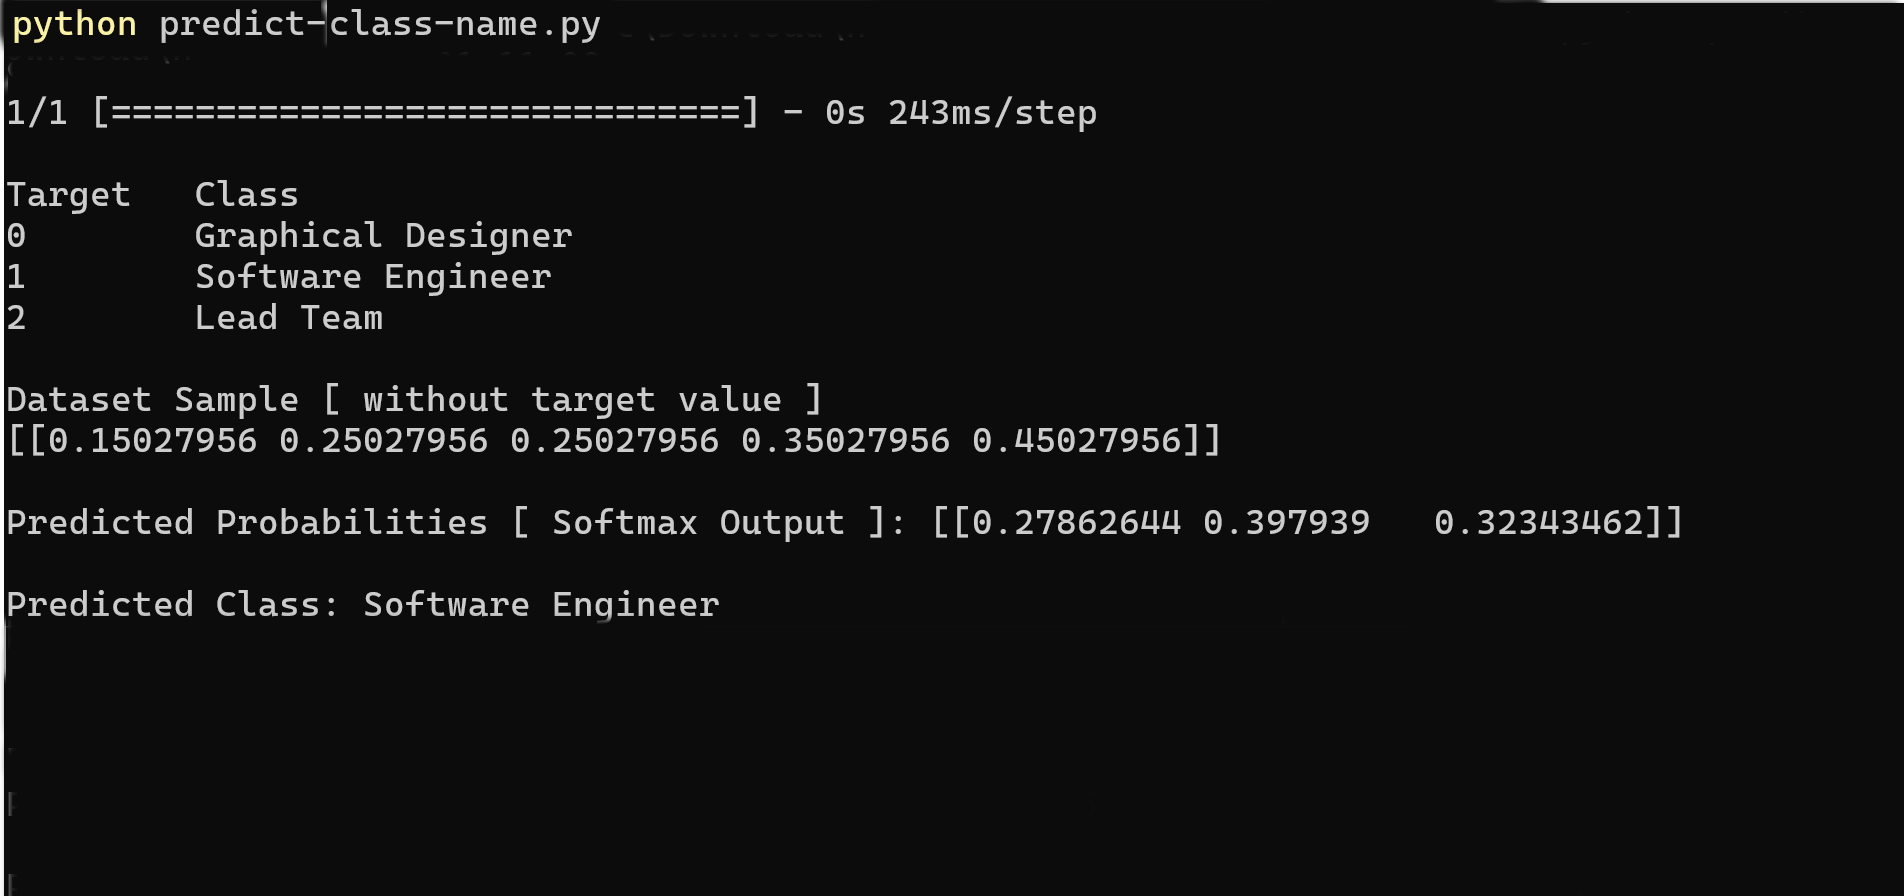
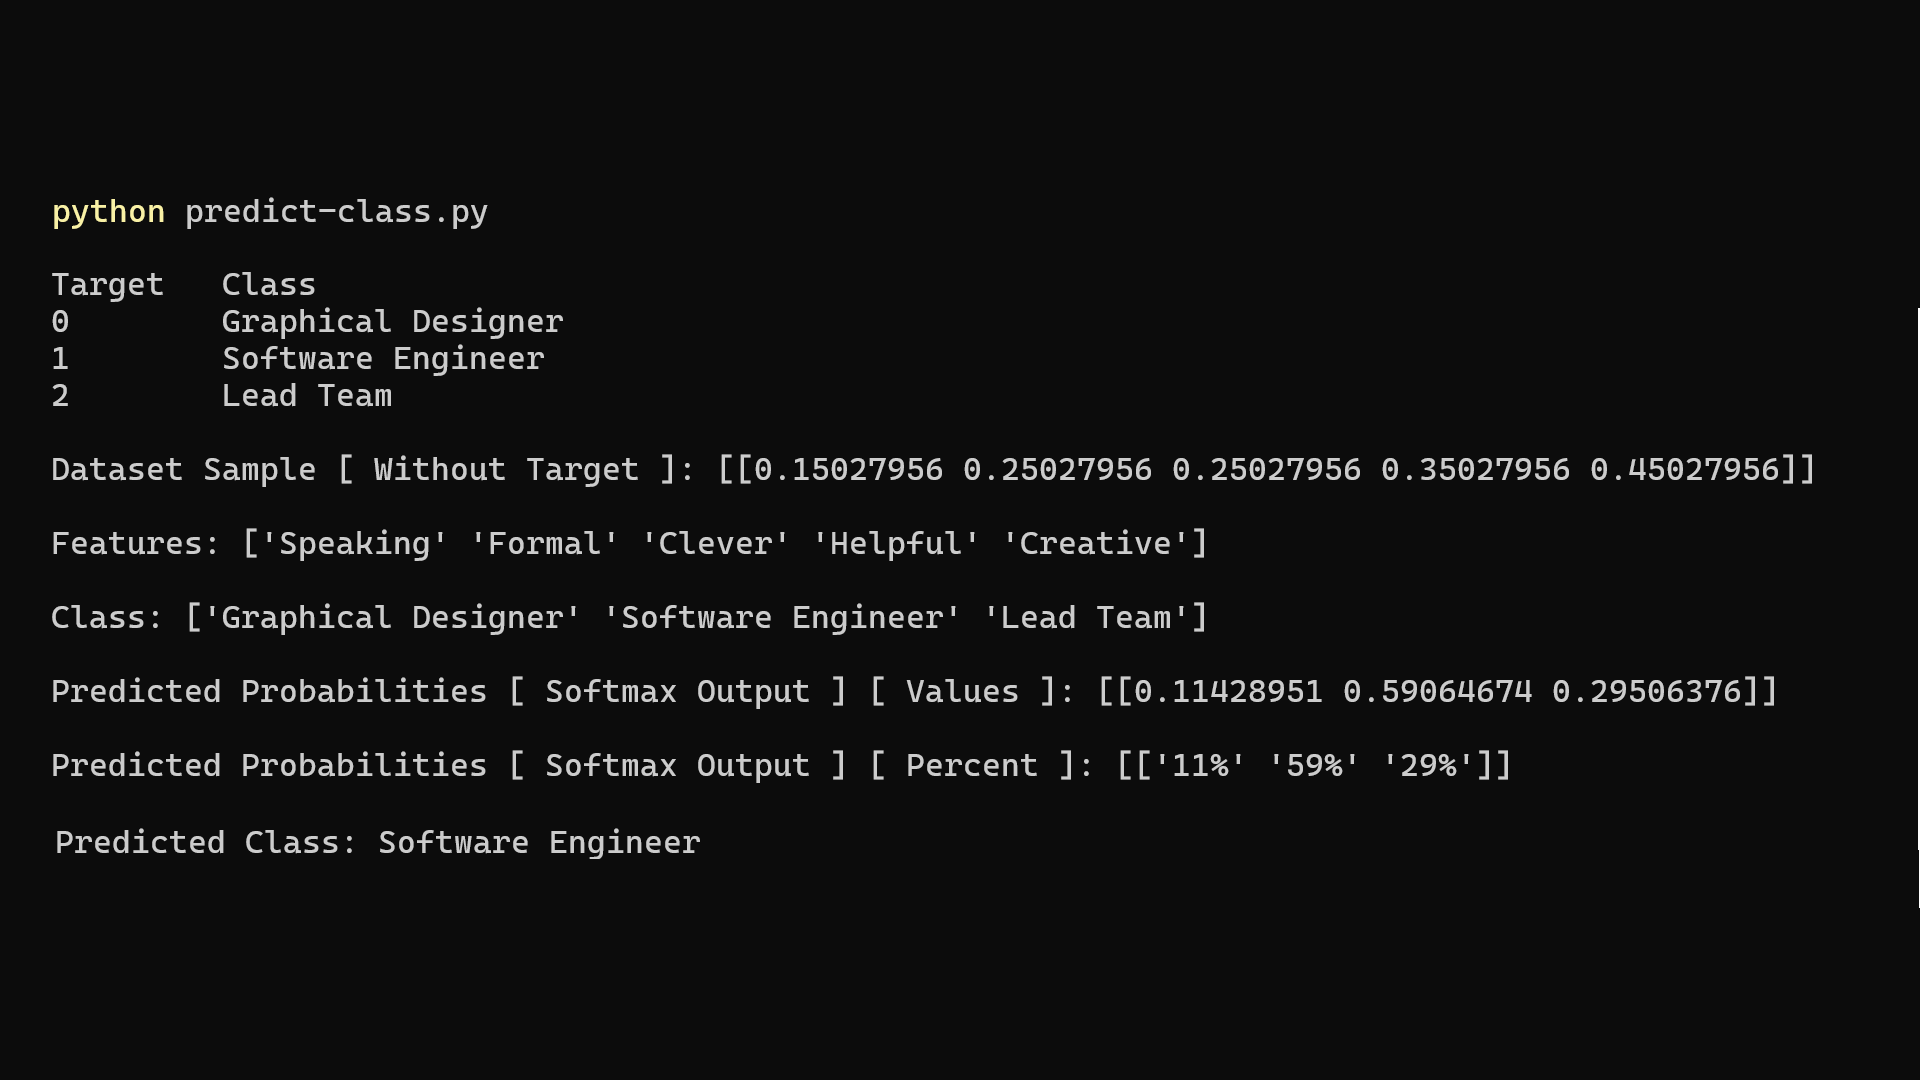
added

diff --git a/python/predict-class/app/predict-class.py b/python/predict-class/app/predict-class.py
@@ -1,0 +1,149 @@
+import numpy as np
+import math as mt
+import tensorflow as tf
+import matplotlib.pyplot as plt
+
+import os
+os.environ['TF_CPP_MIN_LOG_LEVEL'] = '2' #avoid info and warning messages
+
+from tensorflow.keras.models import Sequential
+from tensorflow.keras.layers import Dense
+from tensorflow.keras.utils import to_categorical
+from sklearn.model_selection import train_test_split
+
+import csv
+
+from sklearn.utils import Bunch
+
+def load_dataset():    
+    with open(r'dataset.csv') as csv_file:
+        data_reader = csv.reader(csv_file)
+
+        feature_names = next(data_reader)[:-1]
+        data = []
+        target = []
+
+        for row in data_reader:
+            features = row[:-1]
+            label = row[-1]
+
+            data.append([float(num) for num in features])
+            target.append(int(label))
+        
+        data = np.array(data)
+        target = np.array(target)
+
+    return Bunch\
+    (
+        data=data,
+        target=target, 
+        feature_names=feature_names
+    )
+
+ds = load_dataset()
+
+X = ds.data        
+y = ds.target      
+
+y_encoded = to_categorical(y)
+
+training = train_test_split(X, y_encoded, test_size=0.2, random_state=42)
+
+(
+    X_train, 
+    X_test, 
+    y_train, 
+    y_test
+) = training
+
+# functions to be applied
+relu = Dense\
+(
+    8, 
+    input_shape=(5,), 
+    activation='relu'
+)   
+softmax = Dense\
+(
+    3, 
+    activation='softmax'
+)                  
+
+model = Sequential\
+([
+    relu,
+    softmax
+])
+
+model.compile\
+(
+    optimizer='adam', 
+    loss='categorical_crossentropy', 
+    metrics=['accuracy']
+)
+
+history = model.fit\
+(
+    X_train, 
+    y_train, 
+    epochs=100, 
+    batch_size=8, 
+    validation_split=0.2, 
+    verbose=0
+)
+
+sample = np.array\
+(
+    [
+        [
+        
+            0.1502795572743873,    #speaking feature
+            0.2502795572743873,    #formal feature
+            0.2502795572743873,    #clever feature
+            0.3502795572743873,    #helpful feature
+            0.4502795572743873,    #creative feature
+
+        ]
+    ]   
+)
+
+
+prediction = model.predict(sample, verbose=0)
+predicted_class = np.argmax(prediction)
+
+print("")
+print("Target   Class")
+print("0        Graphical Designer")
+print("1        Software Engineer")
+print("2        Lead Team")
+
+print("")
+print("Dataset Sample [ Without Target ]:", sample)
+
+print("")
+class_arr = np.array\
+([
+    'Speaking',
+    'Formal',
+    'Clever',
+    'Helpful',
+    'Creative'
+])
+print("Features:", class_arr)
+
+print("")
+class_arr = np.array(['Graphical Designer', 'Software Engineer', 'Lead Team'])
+print("Class:", class_arr)
+
+print("")
+print("Predicted Probabilities [ Softmax Output ] [ Values ]:", prediction)
+
+porcentage = lambda t: str(mt.floor(t * 100)) + "%"
+vfunc = np.vectorize(porcentage)
+
+print("")
+print("Predicted Probabilities [ Softmax Output ] [ Percent ]:", vfunc(prediction))
+
+print("")
+class_names = ["Graphical Designer", "Software Engineer", "Lead Team"]
+print("Predicted Class:", class_names[predicted_class])
